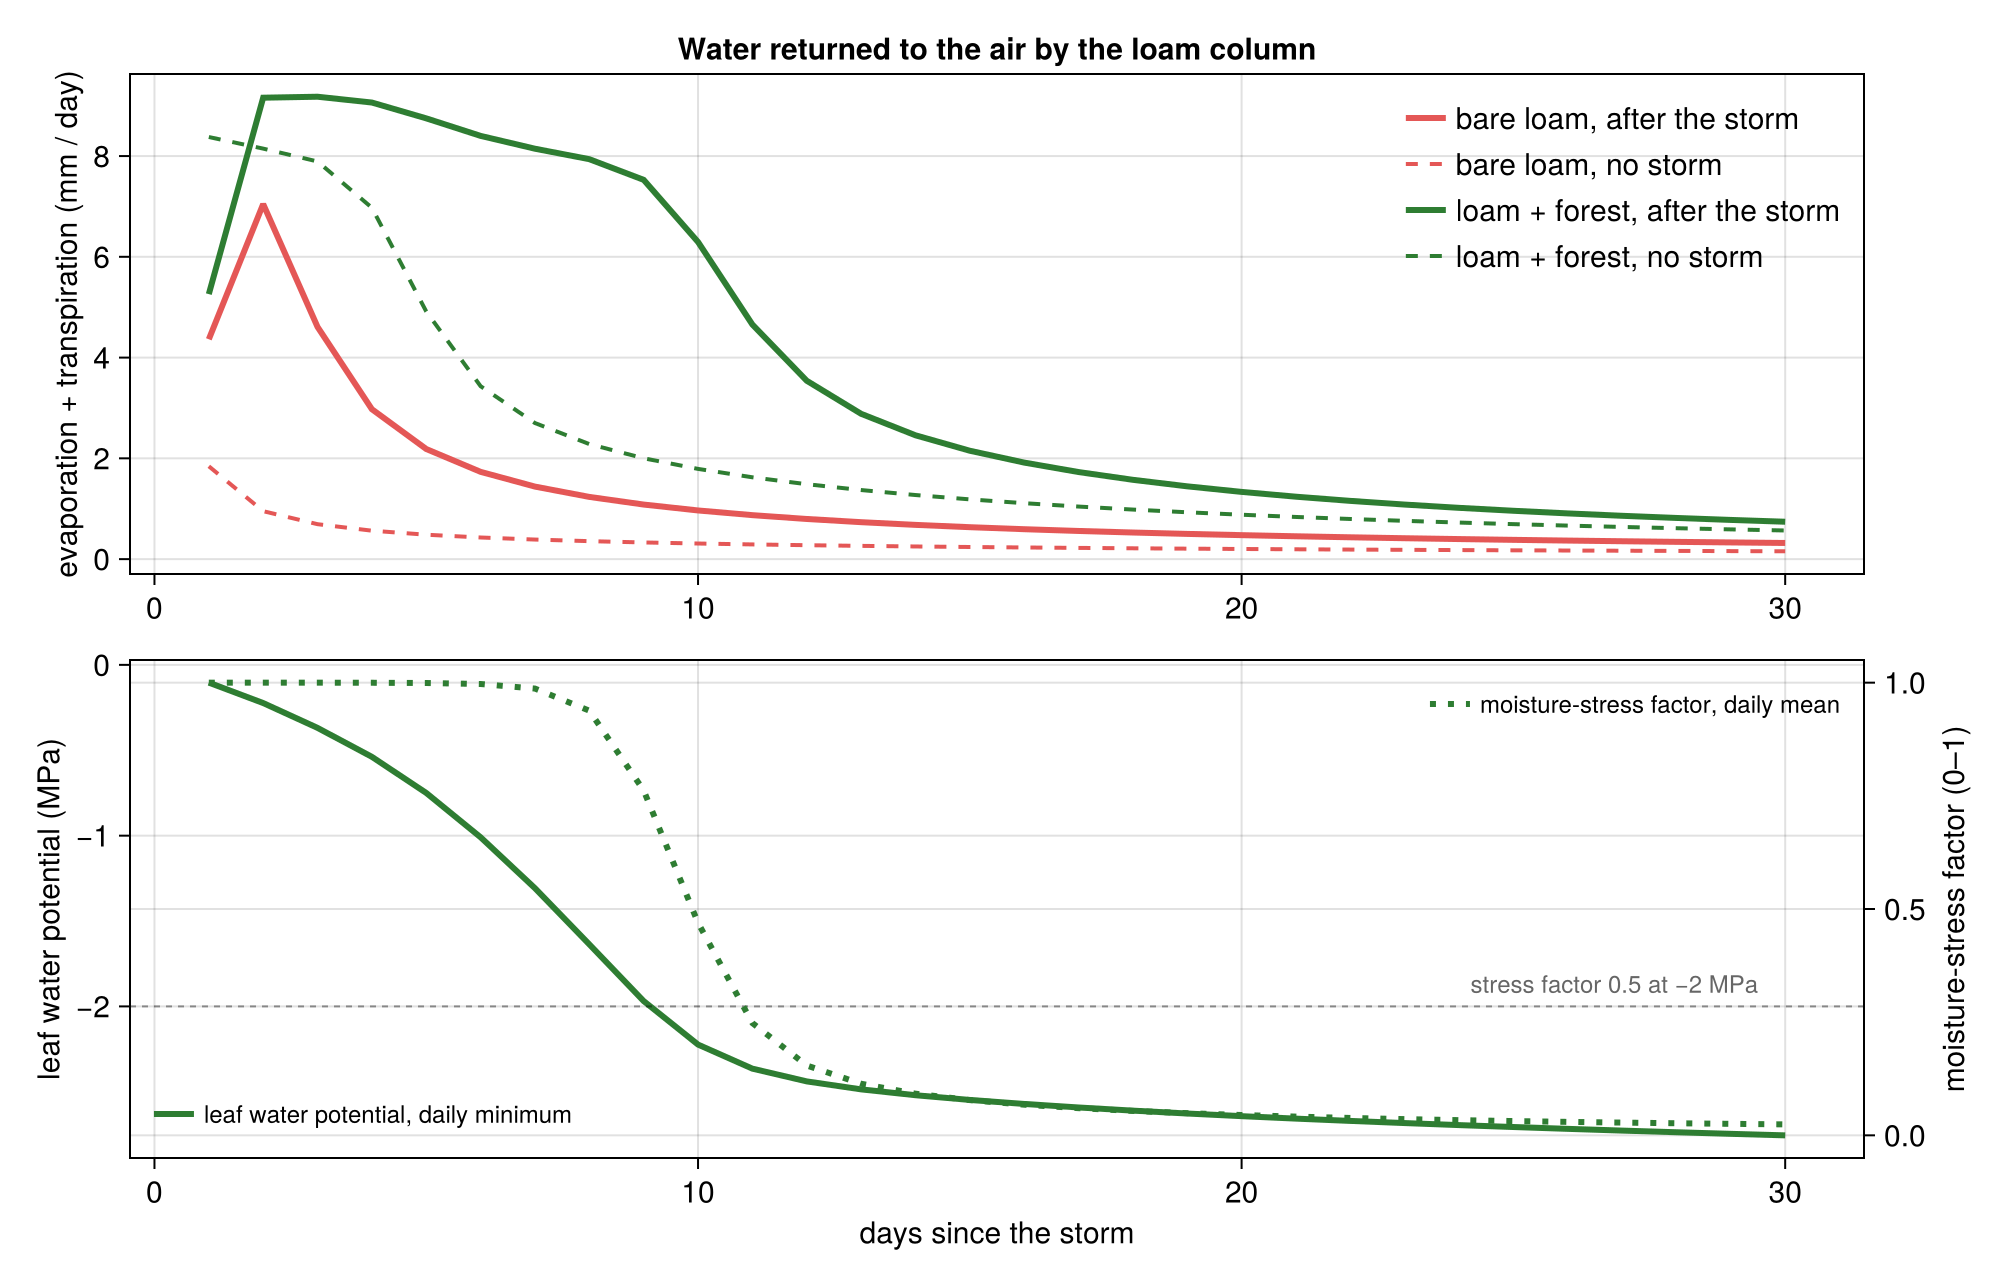
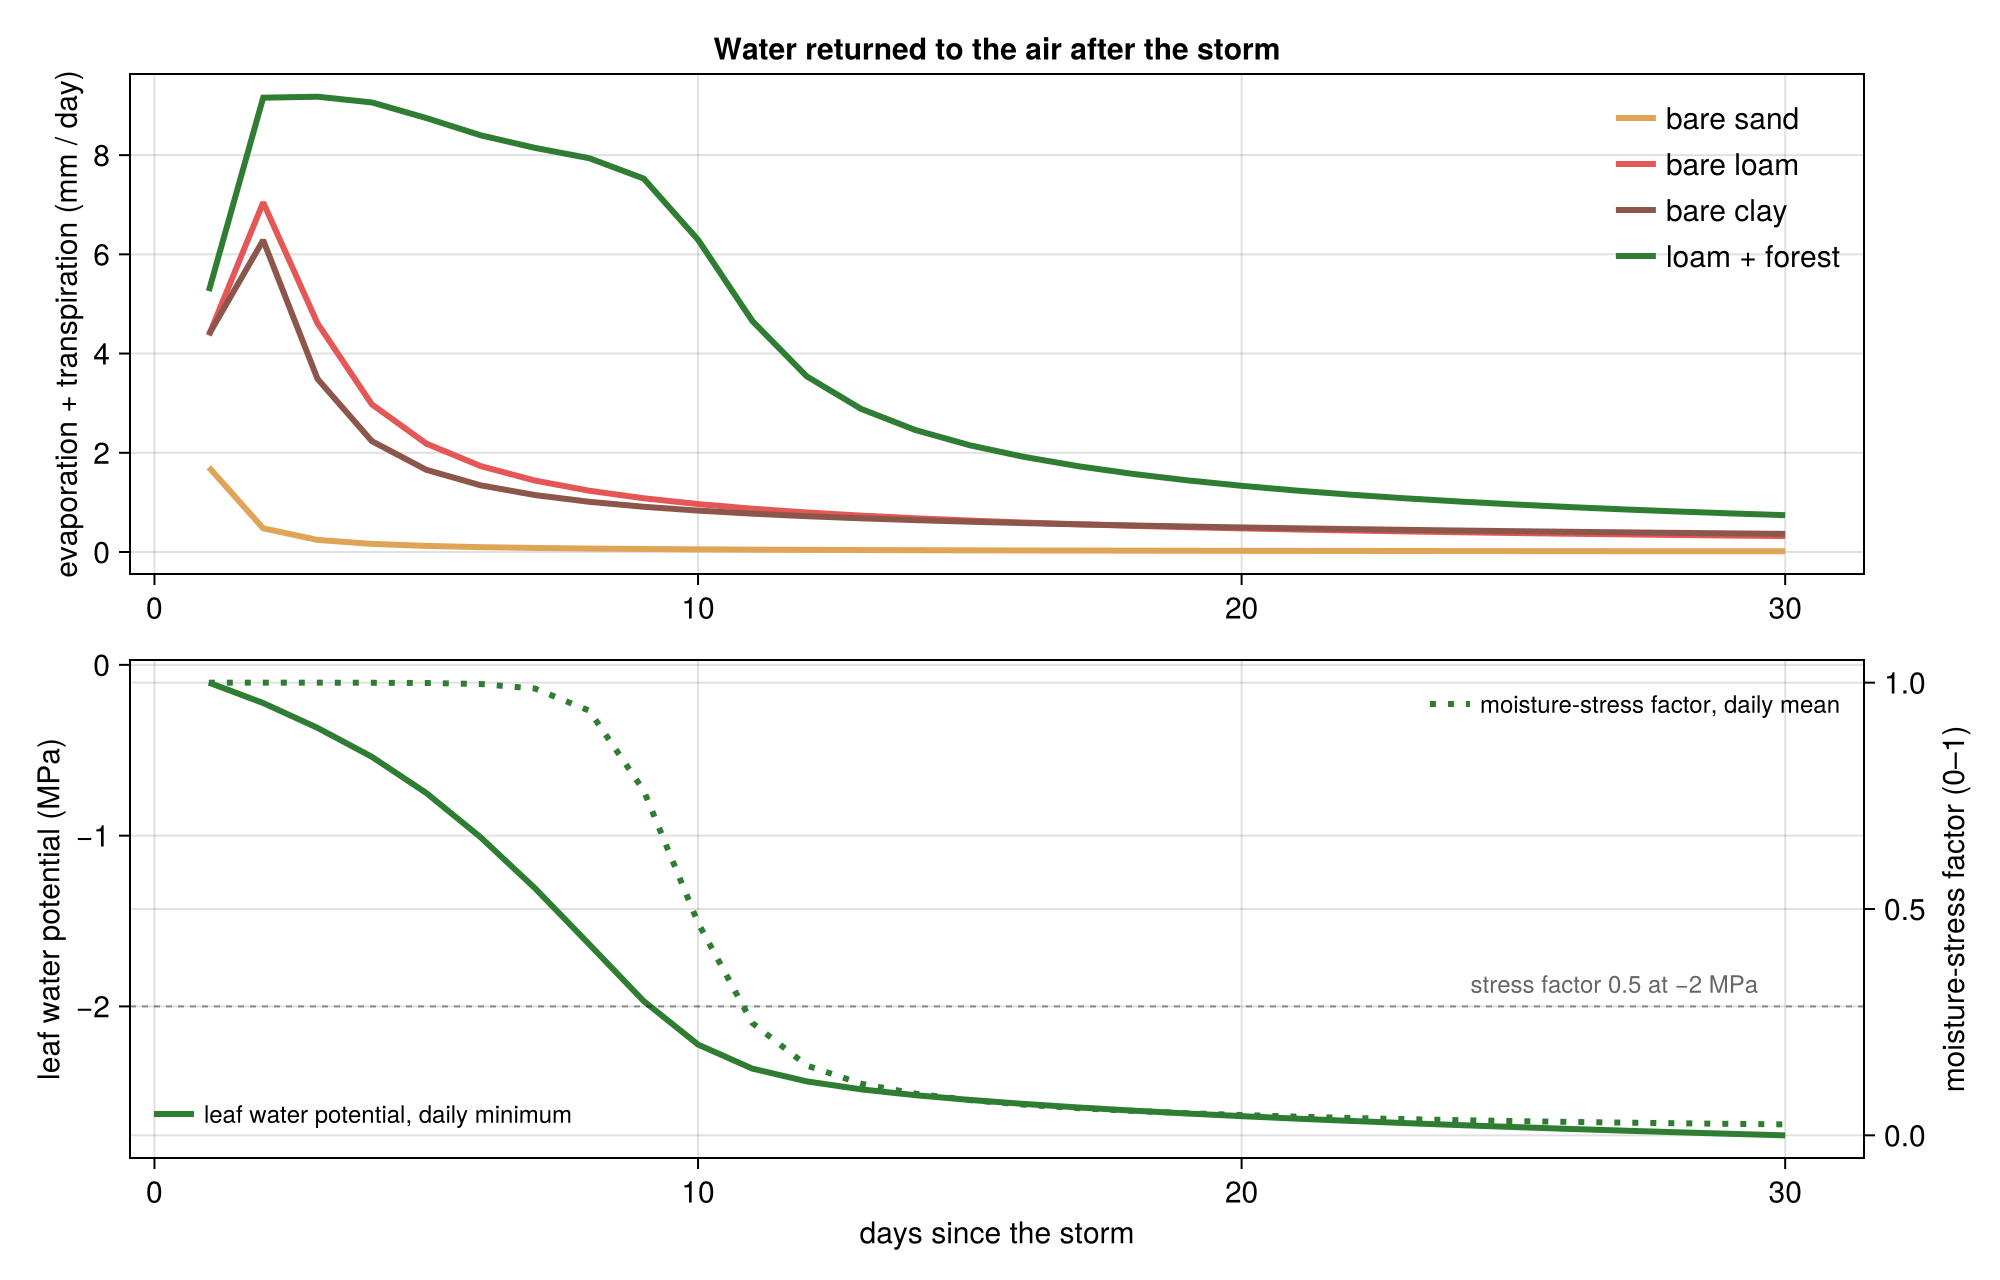
Blog draft: all four columns in the water-returned-to-the-air panel

diff --git a/experiments/blog/rain_columns/blog.html b/experiments/blog/rain_columns/blog.html
@@ -116,8 +116,8 @@ hr{border:0;border-top:1px solid var(--rule);margin:48px 0;}
 
 <div class="wide">
 <figure>
-  <img src="figs/et_timeseries.png" alt="Top: daily evaporation plus transpiration for bare loam and loam with a forest over 30 days, with and without the storm. Bottom: daily minimum leaf water potential and daily mean moisture-stress factor for the forest.">
-  <figcaption><b>Restricting the flow.</b> Top: evaporation plus transpiration each day, for the bare loam and the forested loam, after the storm (solid) and in the same month with no storm (dashed). Runoff and drainage are not part of these curves. Bottom: for the forest after the storm, the daily minimum of the leaf water potential (solid) and the daily mean of the moisture-stress factor (dotted), the multiplier the model applies to photosynthesis and stomatal conductance, which falls to one half at a leaf potential of −2 MPa.</figcaption>
+  <img src="figs/et_timeseries.png" alt="Top: daily evaporation plus transpiration for the four columns over 30 days after the storm. Bottom: daily minimum leaf water potential and daily mean moisture-stress factor for the forest.">
+  <figcaption><b>Restricting the flow.</b> Top: evaporation plus transpiration each day in the four columns; runoff and drainage are not part of these curves. The bare clay keeps pace with the bare loam because it is evaporating mostly its own water, not the storm's. Bottom: for the forest, the daily minimum of the leaf water potential (solid) and the daily mean of the moisture-stress factor (dotted), the multiplier the model applies to photosynthesis and stomatal conductance, which falls to one half at a leaf potential of −2 MPa.</figcaption>
 </figure>
 </div>
 
@@ -136,7 +136,7 @@ hr{border:0;border-top:1px solid var(--rule);margin:48px 0;}
 
 <div class="wrap">
 
-<p>Under the forest the storm is almost gone within the month: 46 of the 50 mm went back to the air, 38 of them through the trees. The more striking line is the dashed forest line in the previous figure. With no rain at all, the forest column transpires 61 mm in a month, drawn from what the soil held before the storm. On the day of the storm the forest even returns less water than its rain-free twin, because the air is humid and the sky overcast while it rains; the storm's water only starts to matter around day five, when the rain-free column runs short. Vegetation does not wait for rain; it spends the sponge's reserve. Over the thirty days the forest returned 113 mm to the air, more than twice the storm, and finished the month with 36 mm less in its soil than it started with. This is the everyday physics behind two things that sound like paradoxes: that planting trees can dry the ground beneath them, and that a transpiring canopy stays cooler than dry bare ground on a summer afternoon while drying the soil faster.</p>
+<p>Under the forest the storm is almost gone within the month: 46 of the 50 mm went back to the air, 38 of them through the trees. The more striking number is not in the figure. With no rain at all, the forest column transpires 61 mm in a month, drawn from what the soil held before the storm; the storm's water only starts to matter around day five, when the rain-free column runs short. Vegetation does not wait for rain; it spends the sponge's reserve. Over the thirty days the forest returned 113 mm to the air, more than twice the storm, and finished the month with 36 mm less in its soil than it started with. This is the everyday physics behind two things that sound like paradoxes: that planting trees can dry the ground beneath them, and that a transpiring canopy stays cooler than dry bare ground on a summer afternoon while drying the soil faster.</p>
 
 <h2>One model for the land, from a column to the globe</h2>
 

diff --git a/experiments/blog/rain_columns/blog.md b/experiments/blog/rain_columns/blog.md
@@ -43,9 +43,9 @@ Stomata close as the tension rises, trading photosynthesis for safety from the e
 
 We added an idealized forest to the loam column: five square meters of leaf per square meter of ground, a two-meter canopy, and roots spread through the whole meter. Everything else, the soil, the weather, and the starting state, is the same as in the bare loam column, so the difference between the two is the straw.
 
-![Top: daily evaporation plus transpiration for bare loam and loam with a forest over 30 days, with and without the storm. Bottom: daily minimum leaf water potential and daily mean moisture-stress factor for the forest.](figs/et_timeseries.png)
+![Top: daily evaporation plus transpiration for the four columns over 30 days after the storm. Bottom: daily minimum leaf water potential and daily mean moisture-stress factor for the forest.](figs/et_timeseries.png)
 
-***Restricting the flow.** Top: evaporation plus transpiration each day, for the bare loam and the forested loam, after the storm (solid) and in the same month with no storm (dashed). Runoff and drainage are not part of these curves. Bottom: for the forest after the storm, the daily minimum of the leaf water potential (solid) and the daily mean of the moisture-stress factor (dotted), the multiplier the model applies to photosynthesis and stomatal conductance, which falls to one half at a leaf potential of −2 MPa.*
+***Restricting the flow.** Top: evaporation plus transpiration each day in the four columns; runoff and drainage are not part of these curves. The bare clay keeps pace with the bare loam because it is evaporating mostly its own water, not the storm's. Bottom: for the forest, the daily minimum of the leaf water potential (solid) and the daily mean of the moisture-stress factor (dotted), the multiplier the model applies to photosynthesis and stomatal conductance, which falls to one half at a leaf potential of −2 MPa.*
 
 For the first nine days the forest returns eight to nine millimeters a day to the air, more than the bare loam ever manages, because its roots reach water that surface evaporation cannot. That water is not free. By day ten the leaves reach a tension of two megapascals at midday, and the model's stress factor falls from 0.9 on day eight to 0.2 on day eleven. Transpiration falls to what the drying soil can supply, and photosynthesis with it. The forest keeps returning water vapor to the air for weeks after the bare loam has gone quiet.
 
@@ -53,7 +53,7 @@ For the first nine days the forest returns eight to nine millimeters a day to th
 
 ***Where did the storm's water go?** The fate of the 50 mm after thirty days in each column, computed as the storm run minus the no-storm run.*
 
-Under the forest the storm is almost gone within the month: 46 of the 50 mm went back to the air, 38 of them through the trees. The more striking line is the dashed forest line in the previous figure. With no rain at all, the forest column transpires 61 mm in a month, drawn from what the soil held before the storm. On the day of the storm the forest even returns less water than its rain-free twin, because the air is humid and the sky overcast while it rains; the storm's water only starts to matter around day five, when the rain-free column runs short. Vegetation does not wait for rain; it spends the sponge's reserve. Over the thirty days the forest returned 113 mm to the air, more than twice the storm, and finished the month with 36 mm less in its soil than it started with. This is the everyday physics behind two things that sound like paradoxes: that planting trees can dry the ground beneath them, and that a transpiring canopy stays cooler than dry bare ground on a summer afternoon while drying the soil faster.
+Under the forest the storm is almost gone within the month: 46 of the 50 mm went back to the air, 38 of them through the trees. The more striking number is not in the figure. With no rain at all, the forest column transpires 61 mm in a month, drawn from what the soil held before the storm; the storm's water only starts to matter around day five, when the rain-free column runs short. Vegetation does not wait for rain; it spends the sponge's reserve. Over the thirty days the forest returned 113 mm to the air, more than twice the storm, and finished the month with 36 mm less in its soil than it started with. This is the everyday physics behind two things that sound like paradoxes: that planting trees can dry the ground beneath them, and that a transpiring canopy stays cooler than dry bare ground on a summer afternoon while drying the soil faster.
 
 ## One model for the land, from a column to the globe
 
